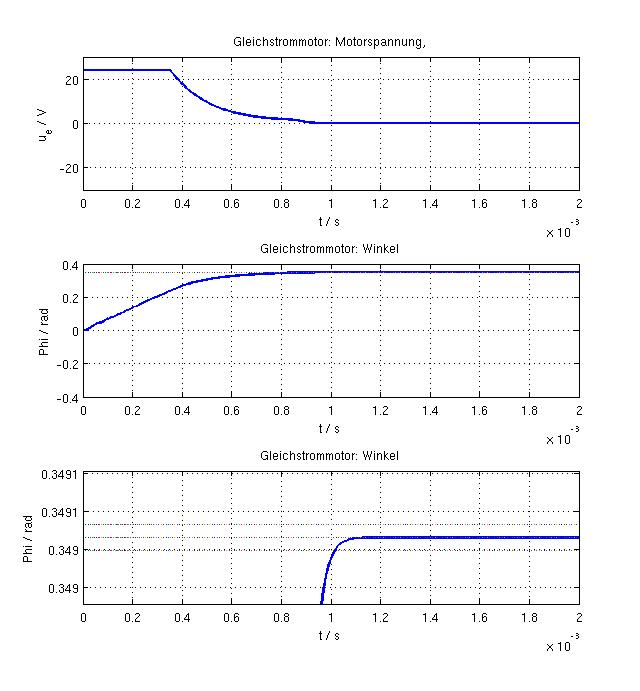
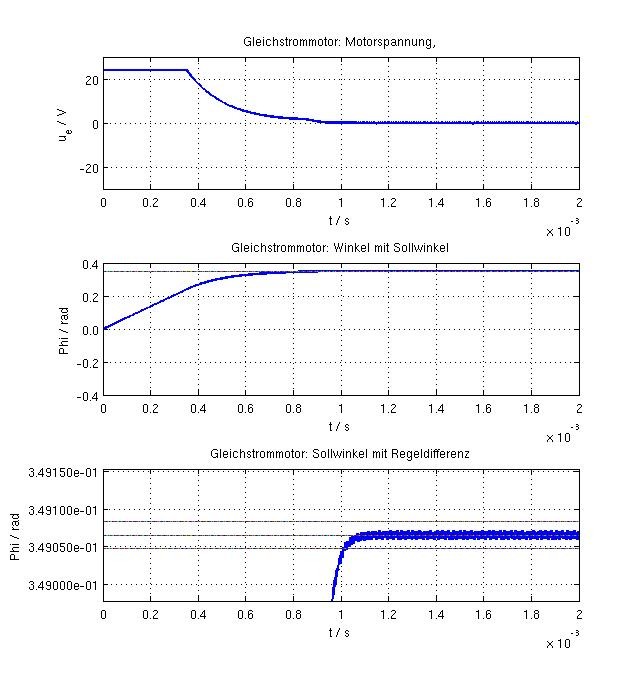
finished making pictures

diff --git a/msSpiegelundSensor.m b/msSpiegelundSensor.m
@@ -1,10 +1,13 @@
 %  msSpiegel_Pad.m     (Matlab/Simulink R2011b)
 %
 %  Vorgang:   Regelung eines Gleichstrommotors zur Spiegelverstellung
-%  Verfahren: Simulink, mithilfe einer P-Adaption
+%  Verfahren: Simulink, mithilfe einer P-Adaption, eingebauter Strom-
+%             begrenzung, angepasster Motorenwerte und eingebauter
+%             Sensor
 %
 %  Unterprogramme:  sSpiegelPadStromNeu.slx
-%                   sensorDaten.m
+%                   sensor.m
+%                   posEingabe.m
 %
 % ########################################################
 %
@@ -16,13 +19,15 @@
 %   J           Traegheitsmoment
 %   r           Reibkonstante
 %
+%   MSpiegel    Drehmoment für Spiegel
+%
 %   KMPHI       Motorkenngrösse
 %
-%   uephi       Sprunghöhe Motorwinkel
+%   phi         Sprunghöhe Motorwinkel
 %
 %   te          Ende des Integrationsintervalls (ab t=0)
 %
-%   ug, og      Untere/obere Grenze der Grafiken
+%   xuX, xoX    Untere/obere Grenze der Grafiken
 %0
 % ########################################################
 clear all
@@ -33,20 +38,20 @@ addpath('/home/michamann/git/syt_ss13/');
 
 % Auswahl Sensorverhalten
 global mode 
-mode = 'nonlinear';
+mode = 'nonlinear';           % linear1, linear2, nonlinear
 global Unit
 Unit = 'rad';
 
 % Kennwerte fuer Sensor
-Innenradius =5; % in mm
-Aussenradius =10; % in mm
-Lastwiederstand =6000; % in Ohm
+Innenradius =5;             % in mm
+Aussenradius =10;           % in mm
+Lastwiederstand =6000;      % in Ohm
 
 Photodioden = [Innenradius,Aussenradius,Lastwiederstand];
-Messbereich = 20/180*pi; % 45° in rad
-LEDLeistung = 1; % in W
-Umgebungstemperatur = 300; % in K
-nonlinear = 1; % Wert zwischen 0 und 1
+Messbereich = 20/180*pi;    % 45° in rad
+LEDLeistung = 1;            % in W
+Umgebungstemperatur = 300;  % in K
+nonlinear = 0.0001;         % Wert zwischen 0 und 1
 
 % Cell-Array fuer Kennwerte von Sensor
 global Sensorkonstanten 
@@ -58,31 +63,33 @@ Sensorkonstanten = sensorDaten(Photodioden,...
 
 
 % Angabe der Parameter fuer Simulink fuer die weiteren Berechnungen
-  RA=0.1;             % Innenwiderstand des Galvos
-  LA=3e-6;            % Induktivitaet des Galvos
-  TA=LA/RA;           % Zeitkonstante T1
+  RA=0.1;                   % Innenwiderstand
+  LA=3e-6;                  % Induktivitaet
+  TA=LA/RA;                 % Zeitkonstante T1
   
-  J=93.3e-11;         % kg m^2 Traegheitsmoment des Spiegels
-  r=6e-5;             % Nm*s Reibung
+  J=93.3e-11;               % kg m^2 Traegheitsmoment des Spiegels
+  r=6e-5;                   % Nm*s Reibung
   
-  KMPHI=35e-3;        % Vs Motorkonstante
+  KMPHI=35e-3;              % Vs Motorkonstante
   
-  Mspiegel=30.25e-6;  % Nm Drehmoment fuer Spiegel
+  MSpiegel=30.25e-6;        % Nm Drehmoment fuer Spiegel
   
-  te=.002;            % end of simulation time 
+  te=.002;                  % end of simulation time 
    
-  phi = 19*pi/180;    % einzustellender Winkel
+  phi = 19*pi/180;          % einzustellender Winkel
   
-  vu=-30;             % uu=-30 V
-  vo=30;              % uo=+30 V
-  iu=-15;             % iu=-15 A
-  io=+15;             % io=+15 A 
-  pu1=-1;           % phiu=-20° in rad 0.4
-  po1=1;            % phio=+20° in rad -0.4
-  pu2=phi-0.5e-2*pi/180;% Diagrammgrenzen fuer Regeldifferenz
-  po2=phi+0.5e-2*pi/180;% Diagrammgrenzen fuer Regeldifferenz
+  vu=-30;                   % uu=-30 V
+  vo=30;                    % uo=+30 V
+  iu=-15;                   % iu=-15 A
+  io=+15;                   % io=+15 A 
+  pu1=-1;                   % phiu=-20° in rad 0.4
+  po1=1;                    % phio=+20° in rad -0.4
+  pu2=phi-0.5e-2*pi/180;    % Diagrammgrenzen fuer Regeldifferenz
+  po2=phi+0.5e-2*pi/180;    % Diagrammgrenzen fuer Regeldifferenz
+  
 % ########################################################
-% Plot: Eingangssignal u
+
+% Plot: Eingangssignal u und Winkel phi
 figure(1)
 set(gcf,'Units','normal','Position',[.49 .7 .5 .9], ...
     'NumberTitle','on','Name','u und v ');
@@ -114,7 +121,7 @@ xlabel('t / s')
 ylabel('Phi / rad')
 YTicks=get(gca,'YTick');
 set(gca,'YTickLabel',num2str(YTicks(:),'%.1f'));
-title('Gleichstrommotor: Winkel')
+title('Gleichstrommotor: Winkel mit Sollwinkel')
 
 subplot(3,1,3)
 plot(t,y(:,2),...
@@ -131,7 +138,10 @@ xlabel('t / s')
 ylabel('Phi / rad')
 YTicks=get(gca,'YTick');
 set(gca,'YTickLabel',num2str(YTicks(:),'%.5e'));
-title('Gleichstrommotor: Sollwinkel und Toleranzen')
+title('Gleichstrommotor: Sollwinkel mit Regeldifferenz')
+
+
+% Möglichkeit, Strom und Winkelspannunge auszugeben
 
 % figure(2)
 % plot (t,y(:,4),'linewidth',2);

diff --git a/msSpiegel_Pad_Neue_Werte_Strom.m b/msSpiegel_Pad_Neue_Werte_Strom.m
@@ -73,7 +73,7 @@ opts=simset('solver','ode45',...
     'Refine',1,...
     'MaxStep',.00001);
 
-[t,x,y]=sim('sSpiegelPadStrom',[t0 te],opts);
+[t,x,y]=sim('sSpiegelPadStromNeu',[t0 te],opts);
 
 
 % Plots
